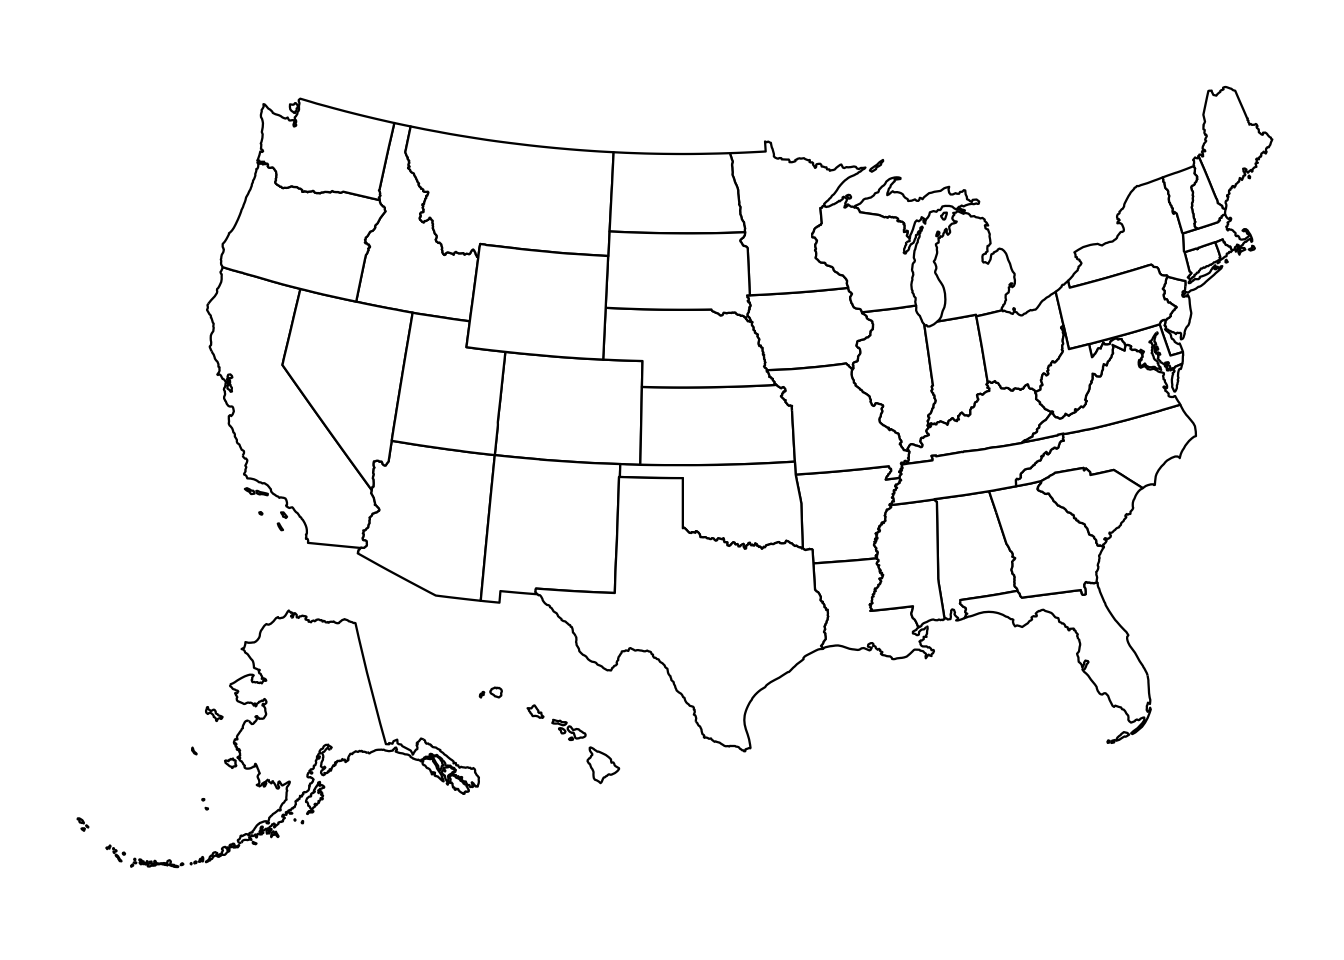
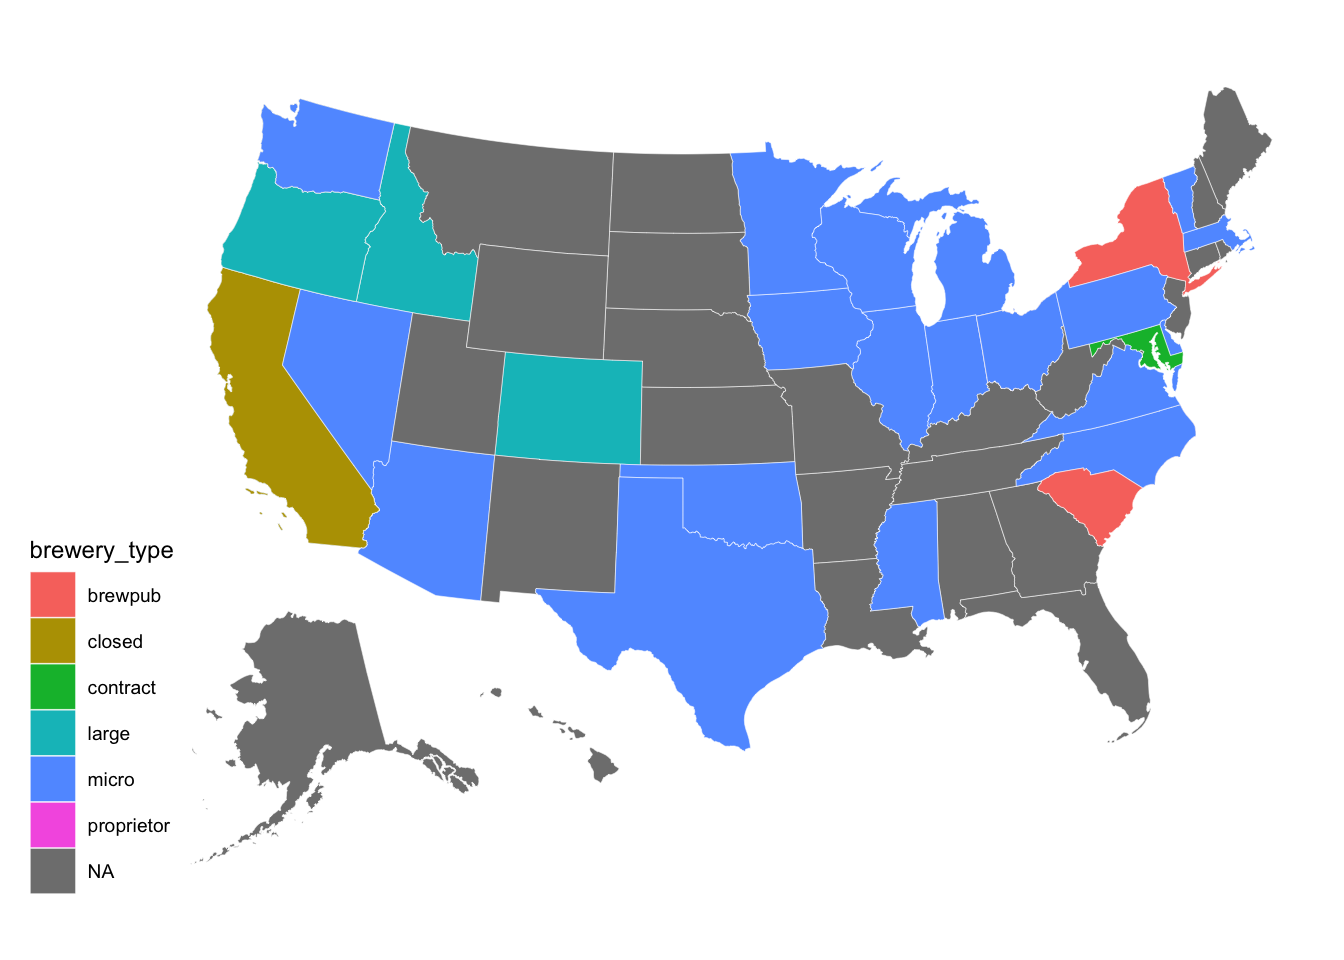
final done

diff --git a/TidyVerseBrewery.html b/TidyVerseBrewery.html
@@ -2030,34 +2030,24 @@ NULL</code></pre>
 </div>
 </div>
 </div>
-<pre class="kci#"><code>install.packages("usmap")</code></pre>
+<pre class="blh#"><code>install.packages("usmap")</code></pre>
 <div class="cell">
 <div class="sourceCode cell-code" id="cb27"><pre class="sourceCode r code-with-copy"><code class="sourceCode r"><span id="cb27-1"><a href="#cb27-1" aria-hidden="true" tabindex="-1"></a><span class="fu">library</span>(usmap)</span>
 <span id="cb27-2"><a href="#cb27-2" aria-hidden="true" tabindex="-1"></a><span class="fu">library</span>(ggplot2)</span></code><button title="Copy to Clipboard" class="code-copy-button"><i class="bi"></i></button></pre></div>
 </div>
+<p>Used a map to visulize which type of brewery production is popular in the state. Some states dont have any data regarding their brewery production and are colored in with grey. There are 24 states without such data, which does impact on the story telling of our data.</p>
 <div class="cell">
-<div class="sourceCode cell-code" id="cb28"><pre class="sourceCode r code-with-copy"><code class="sourceCode r"><span id="cb28-1"><a href="#cb28-1" aria-hidden="true" tabindex="-1"></a><span class="fu">plot_usmap</span>()</span></code><button title="Copy to Clipboard" class="code-copy-button"><i class="bi"></i></button></pre></div>
+<div class="sourceCode cell-code" id="cb28"><pre class="sourceCode r code-with-copy"><code class="sourceCode r"><span id="cb28-1"><a href="#cb28-1" aria-hidden="true" tabindex="-1"></a><span class="fu">plot_usmap</span>(</span>
+<span id="cb28-2"><a href="#cb28-2" aria-hidden="true" tabindex="-1"></a>  <span class="at">color =</span> <span class="st">"white"</span>,</span>
+<span id="cb28-3"><a href="#cb28-3" aria-hidden="true" tabindex="-1"></a>  <span class="at">linewidth =</span> <span class="fl">0.1</span>,</span>
+<span id="cb28-4"><a href="#cb28-4" aria-hidden="true" tabindex="-1"></a>  <span class="at">regions =</span> <span class="st">"states"</span>,</span>
+<span id="cb28-5"><a href="#cb28-5" aria-hidden="true" tabindex="-1"></a>  <span class="at">data =</span> brewery_type_state,</span>
+<span id="cb28-6"><a href="#cb28-6" aria-hidden="true" tabindex="-1"></a>  <span class="at">values =</span> <span class="st">"brewery_type"</span></span>
+<span id="cb28-7"><a href="#cb28-7" aria-hidden="true" tabindex="-1"></a>) </span></code><button title="Copy to Clipboard" class="code-copy-button"><i class="bi"></i></button></pre></div>
 <div class="cell-output-display">
 <div>
 <figure class="figure">
 <p><img src="TidyVerseBrewery_files/figure-html/unnamed-chunk-15-1.png" class="img-fluid figure-img" width="672"></p>
-</figure>
-</div>
-</div>
-</div>
-<p>Used a map to visulize which type of brewery production is popular in the state. Some states dont have any data regarding their brewery production and are colored in with grey. There are 24 states without such data, which does impact on the story telling of our data.</p>
-<div class="cell">
-<div class="sourceCode cell-code" id="cb29"><pre class="sourceCode r code-with-copy"><code class="sourceCode r"><span id="cb29-1"><a href="#cb29-1" aria-hidden="true" tabindex="-1"></a><span class="fu">plot_usmap</span>(</span>
-<span id="cb29-2"><a href="#cb29-2" aria-hidden="true" tabindex="-1"></a>  <span class="at">color =</span> <span class="st">"white"</span>,</span>
-<span id="cb29-3"><a href="#cb29-3" aria-hidden="true" tabindex="-1"></a>  <span class="at">linewidth =</span> <span class="fl">0.1</span>,</span>
-<span id="cb29-4"><a href="#cb29-4" aria-hidden="true" tabindex="-1"></a>  <span class="at">regions =</span> <span class="st">"states"</span>,</span>
-<span id="cb29-5"><a href="#cb29-5" aria-hidden="true" tabindex="-1"></a>  <span class="at">data =</span> brewery_type_state,</span>
-<span id="cb29-6"><a href="#cb29-6" aria-hidden="true" tabindex="-1"></a>  <span class="at">values =</span> <span class="st">"brewery_type"</span></span>
-<span id="cb29-7"><a href="#cb29-7" aria-hidden="true" tabindex="-1"></a>) </span></code><button title="Copy to Clipboard" class="code-copy-button"><i class="bi"></i></button></pre></div>
-<div class="cell-output-display">
-<div>
-<figure class="figure">
-<p><img src="TidyVerseBrewery_files/figure-html/unnamed-chunk-16-1.png" class="img-fluid figure-img" width="672"></p>
 </figure>
 </div>
 </div>
